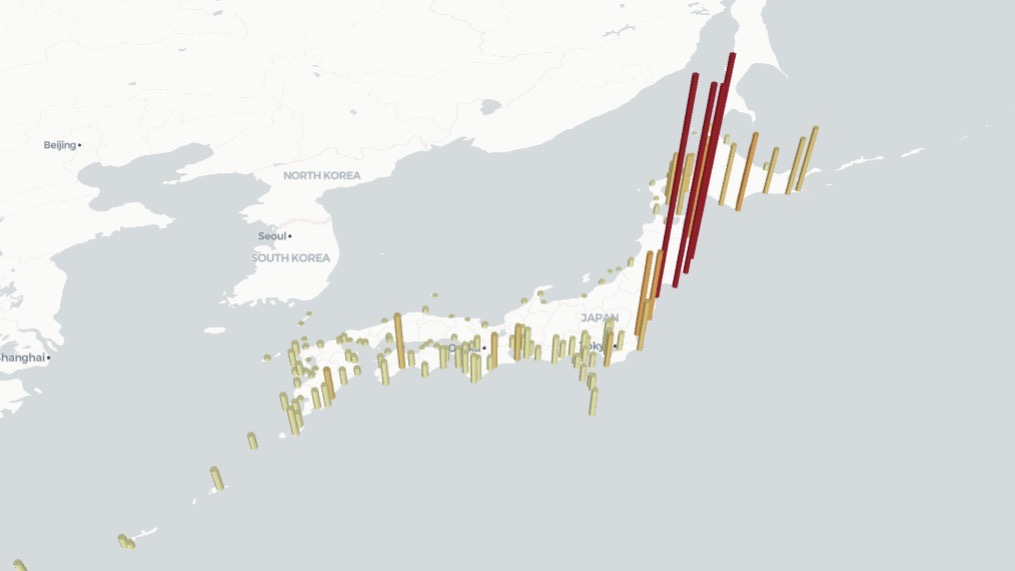
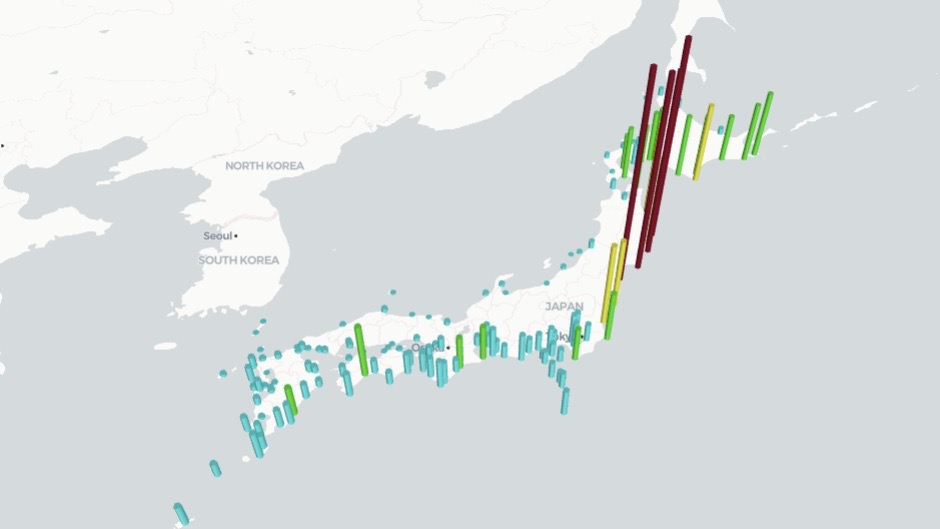
up

diff --git a/higashinihonarcrotate/index.html b/higashinihonarcrotate/index.html
@@ -21,11 +21,11 @@
 
 
 
-<meta name="twitter:image" content="https://dpnote.netlify.app/images/post/higashinihon.png" />
+<meta name="twitter:image" content="https://dpnote.netlify.app/images/post/higashinihon.jpg" />
 
 
 
-<meta property="og:image" content="https://dpnote.netlify.app/images/post/higashinihon.png">
+<meta property="og:image" content="https://dpnote.netlify.app/images/post/higashinihon.jpg">
 
 
 <meta property="og:url" content="https://dpnote.netlify.app/higashinihonarcrotate/" />
@@ -98,7 +98,7 @@
 
 
   <span class="post_date"><time itemprop="datePublished" datetime='2024-08-17'>公開日：2024.08.17</time></span>
-  <span class="post_date" id="post_date_top"><time itemprop="dateModified" datetime='2024-12-27'>更新日：2024.12.27</time></span>
+  <span class="post_date" id="post_date_top"><time itemprop="dateModified" datetime='2025-02-27'>更新日：2025.02.27</time></span>
 
 
   
@@ -126,11 +126,9 @@
 
 
     
-    <img src="https://dpnote.netlify.app/simulation/higashinihon.png" class="image_featured" alt="東日本大震災津波観測地点の可視化アニメーション">
-    
     <p>以前、東日本大震災の観測地点をArcLayerで結んだことがあったのですが、アニメーション機能を追記してみました。</p>
-<iframe src ="../../simulation/higashinihon_arclayer_rotate.html" width="100%" height="550px" frameborder="no" scrolling="no"></iframe>
-<a href="../../simulation/higashinihon_arclayer_rotate.html" target="_blank" class="linka">全画面で見る</a>
+<iframe src ="../simulation/higashinihon_arclayer_rotate.html" width="100%" height="550px" frameborder="no" scrolling="no"></iframe>
+<a href="../simulation/higashinihon_arclayer_rotate.html" target="_blank" class="linka">全画面で見る</a>
 <center>
 
 <div class="video">

diff --git a/simulation/higashinihontsunami.html b/simulation/higashinihontsunami.html
@@ -33,6 +33,8 @@
 
 		<script src="https://unpkg.com/deck.gl@^8.0.0/dist.min.js"></script>
 
+		<script src="https://d3js.org/d3.v5.min.js"></script>
+
 		<script src='https://unpkg.com/maplibre-gl@2.4.0/dist/maplibre-gl.js'></script>
 		<link href='https://unpkg.com/maplibre-gl@2.4.0/dist/maplibre-gl.css' rel='stylesheet' />
 
@@ -108,10 +110,10 @@
 		<div class="button2" id="stop"><i class="fa-solid fa-stop"></i></div>
 	</span>
 
-	<div class="attribution">
+	<!--<div class="attribution">
 		出典：<a href="https://www.jma.go.jp/jma/kishou/books/saigaiji/saigaiji_201101/saigaiji_201101.html"
 			target="_blank">災害時地震・津波速報 平成23年(2011年)東北地方太平洋沖地震</a>、気象庁
-	</div>
+	</div>-->
 
 </body>
 
@@ -119,19 +121,31 @@
 
         const { DeckGL, GridLayer, HexagonLayer, LinearInterpolator } = deck;
 
+        const colorRange = [
+            [0, 255, 255, 255],
+            [63, 255, 0, 255],
+            [255, 255, 0, 255],
+            [255, 127, 60, 255],
+            [255, 0, 0, 255],
+            [152, 0, 38, 255]
+        ];
+
+		const data = d3.csv('./data/higashinihontsunami.csv');
+
 	const layer = new HexagonLayer({
 		id: 'hexagon-layer',
-		data: "./data/higashinihontsunami.json",
+		data,
 		pickable: true,
 		extruded: true,
-		getElevationWeight: d => Number(d.height),
+		colorRange,
+		getElevationWeight: d => Number(d.value),
 		elevationAggregation: 'MAX',
-		getColorWeight: point => Number(point.height),
+		getColorWeight: point => Number(point.value),
 		colorAggregation: 'MAX',
 		radius: 10000,
 		elevationScale: 4,
 		elevationRange: [0, 200000],
-		getPosition: p => [Number(p.lon), Number(p.lat)]
+		getPosition: p => [Number(p.lng), Number(p.lat)]
 	});
 
 	let initialViewState = {

diff --git a/simulation/higashinihon_arclayer_rotate.html b/simulation/higashinihon_arclayer_rotate.html
@@ -12,11 +12,11 @@
 
 		<meta property="og:title" content="東日本大震災の津波到達地点の可視化" />
 		<meta property="og:type" content="website" />
-		<meta property="og:image" content="https://dpnote.netlify.app/simulation/higashinihon.png" />
+		<meta property="og:image" content="https://dpnote.netlify.app/simulation/higashinihon.jpg" />
 		<meta property="og:description" content="東日本大震災の津波到達地点の可視化" />
 		<meta name="twitter:card" content="summary_large_image">
 		<meta name="twitter:title" content="東日本大震災の津波到達地点の可視化" />
-		<meta name="twitter:image" content="https://dpnote.netlify.app/simulation/higashinihon.png" />
+		<meta name="twitter:image" content="https://dpnote.netlify.app/simulation/higashinihon.jpg" />
 		<meta name="twitter:description" content="東日本大震災の津波到達地点の可視化" />
 		<meta name="author" content="仁志">
 		<meta name="keywords" content="東日本大震災,マップ,3Dマップ" />

diff --git a/category/tsunami/index.html b/category/tsunami/index.html
@@ -118,7 +118,7 @@
     </div>
     <div class="excerpt_footer partition">
       <div class="kai_thumbnail">
-        <img src='https://dpnote.netlify.app/images/post/higashinihon.png' alt="東日本大震災津波観測地点の可視化アニメーション">
+        <img src='https://dpnote.netlify.app/images/post/higashinihon.jpg' alt="東日本大震災津波観測地点の可視化アニメーション">
       </div>
       
         <div>

diff --git a/page/2/index.html b/page/2/index.html
@@ -250,7 +250,7 @@
     </div>
     <div class="excerpt_footer partition">
       <div class="kai_thumbnail">
-        <img src='https://dpnote.netlify.app/images/post/higashinihon.png' alt="東日本大震災津波観測地点の可視化アニメーション">
+        <img src='https://dpnote.netlify.app/images/post/higashinihon.jpg' alt="東日本大震災津波観測地点の可視化アニメーション">
       </div>
       
         <div>

diff --git a/post/page/2/index.html b/post/page/2/index.html
@@ -247,7 +247,7 @@
     </div>
     <div class="excerpt_footer partition">
       <div class="kai_thumbnail">
-        <img src='https://dpnote.netlify.app/images/post/higashinihon.png' alt="東日本大震災津波観測地点の可視化アニメーション">
+        <img src='https://dpnote.netlify.app/images/post/higashinihon.jpg' alt="東日本大震災津波観測地点の可視化アニメーション">
       </div>
       
         <div>

diff --git a/higashinihontsunami/index.html b/higashinihontsunami/index.html
@@ -184,7 +184,7 @@
   <div class="related">
     
       <div class="item1"><a href="/higashinihonarcrotate/">
-              <img src='https://dpnote.netlify.app/images/post/higashinihon.png'>
+              <img src='https://dpnote.netlify.app/images/post/higashinihon.jpg'>
           </a>
 
         <a href="/higashinihonarcrotate/">東日本大震災津波観測地点の可視化アニメーション</a>

diff --git a/tonga/index.html b/tonga/index.html
@@ -185,7 +185,7 @@
   <div class="related">
     
       <div class="item1"><a href="/higashinihonarcrotate/">
-              <img src='https://dpnote.netlify.app/images/post/higashinihon.png'>
+              <img src='https://dpnote.netlify.app/images/post/higashinihon.jpg'>
           </a>
 
         <a href="/higashinihonarcrotate/">東日本大震災津波観測地点の可視化アニメーション</a>

diff --git a/tspeed/index.html b/tspeed/index.html
@@ -186,7 +186,7 @@
   <div class="related">
     
       <div class="item1"><a href="/higashinihonarcrotate/">
-              <img src='https://dpnote.netlify.app/images/post/higashinihon.png'>
+              <img src='https://dpnote.netlify.app/images/post/higashinihon.jpg'>
           </a>
 
         <a href="/higashinihonarcrotate/">東日本大震災津波観測地点の可視化アニメーション</a>

diff --git a/water/index.html b/water/index.html
@@ -184,7 +184,7 @@
   <div class="related">
     
       <div class="item1"><a href="/higashinihonarcrotate/">
-              <img src='https://dpnote.netlify.app/images/post/higashinihon.png'>
+              <img src='https://dpnote.netlify.app/images/post/higashinihon.jpg'>
           </a>
 
         <a href="/higashinihonarcrotate/">東日本大震災津波観測地点の可視化アニメーション</a>
